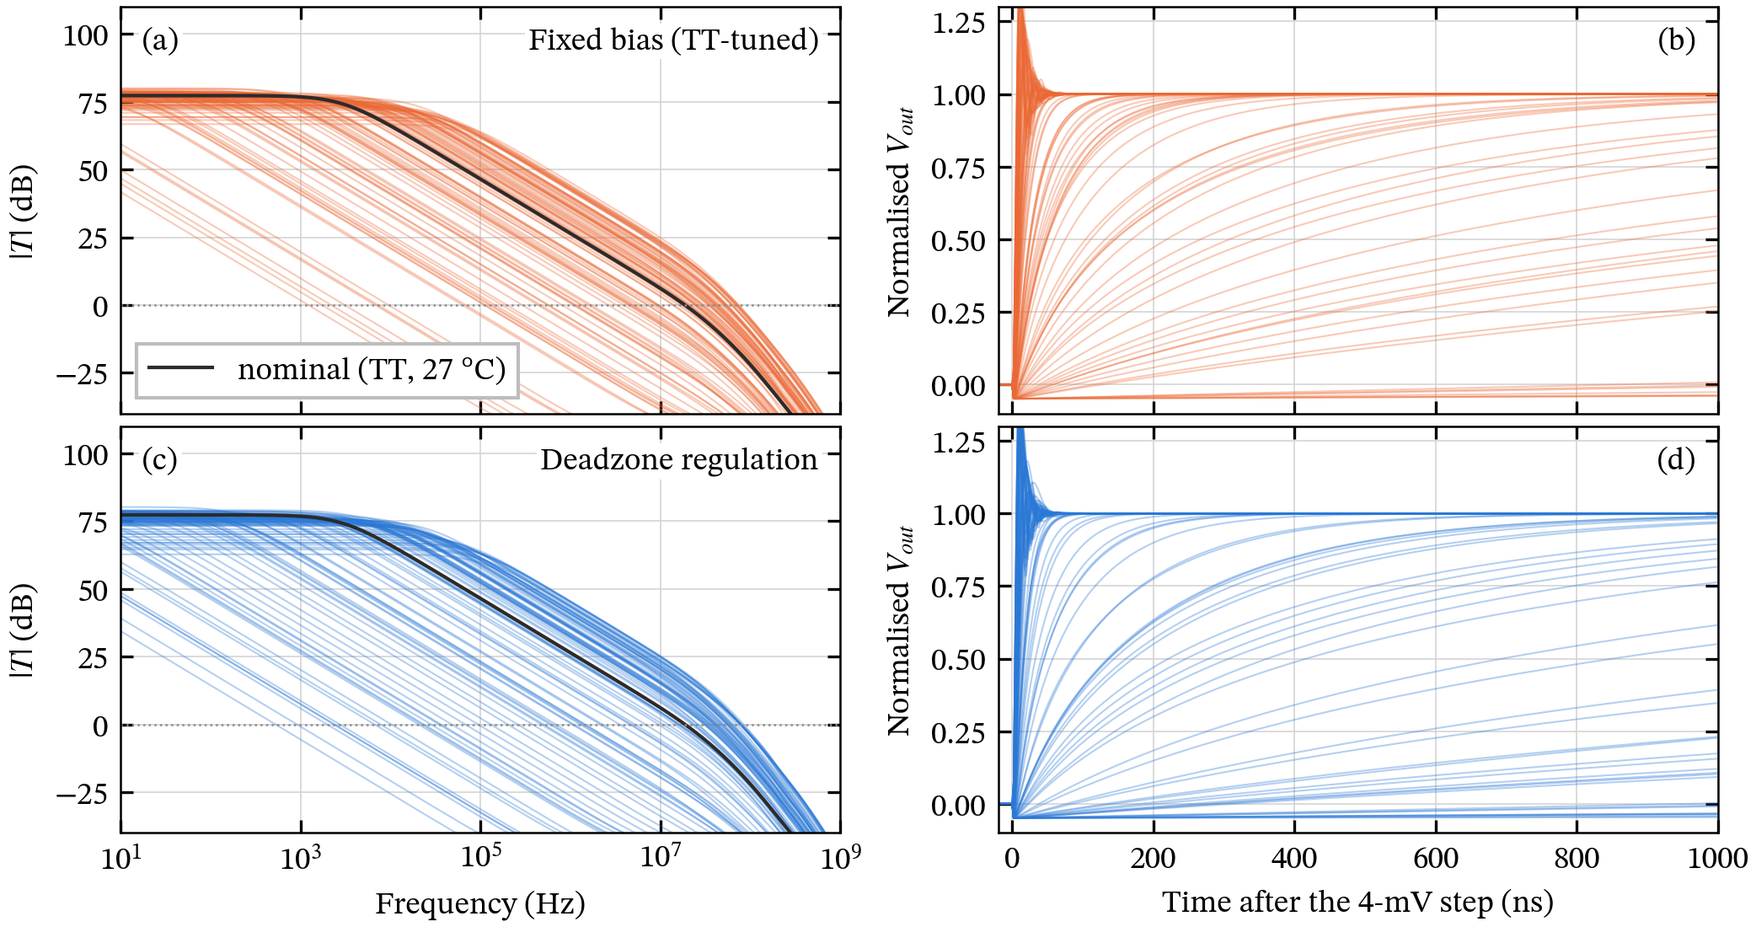
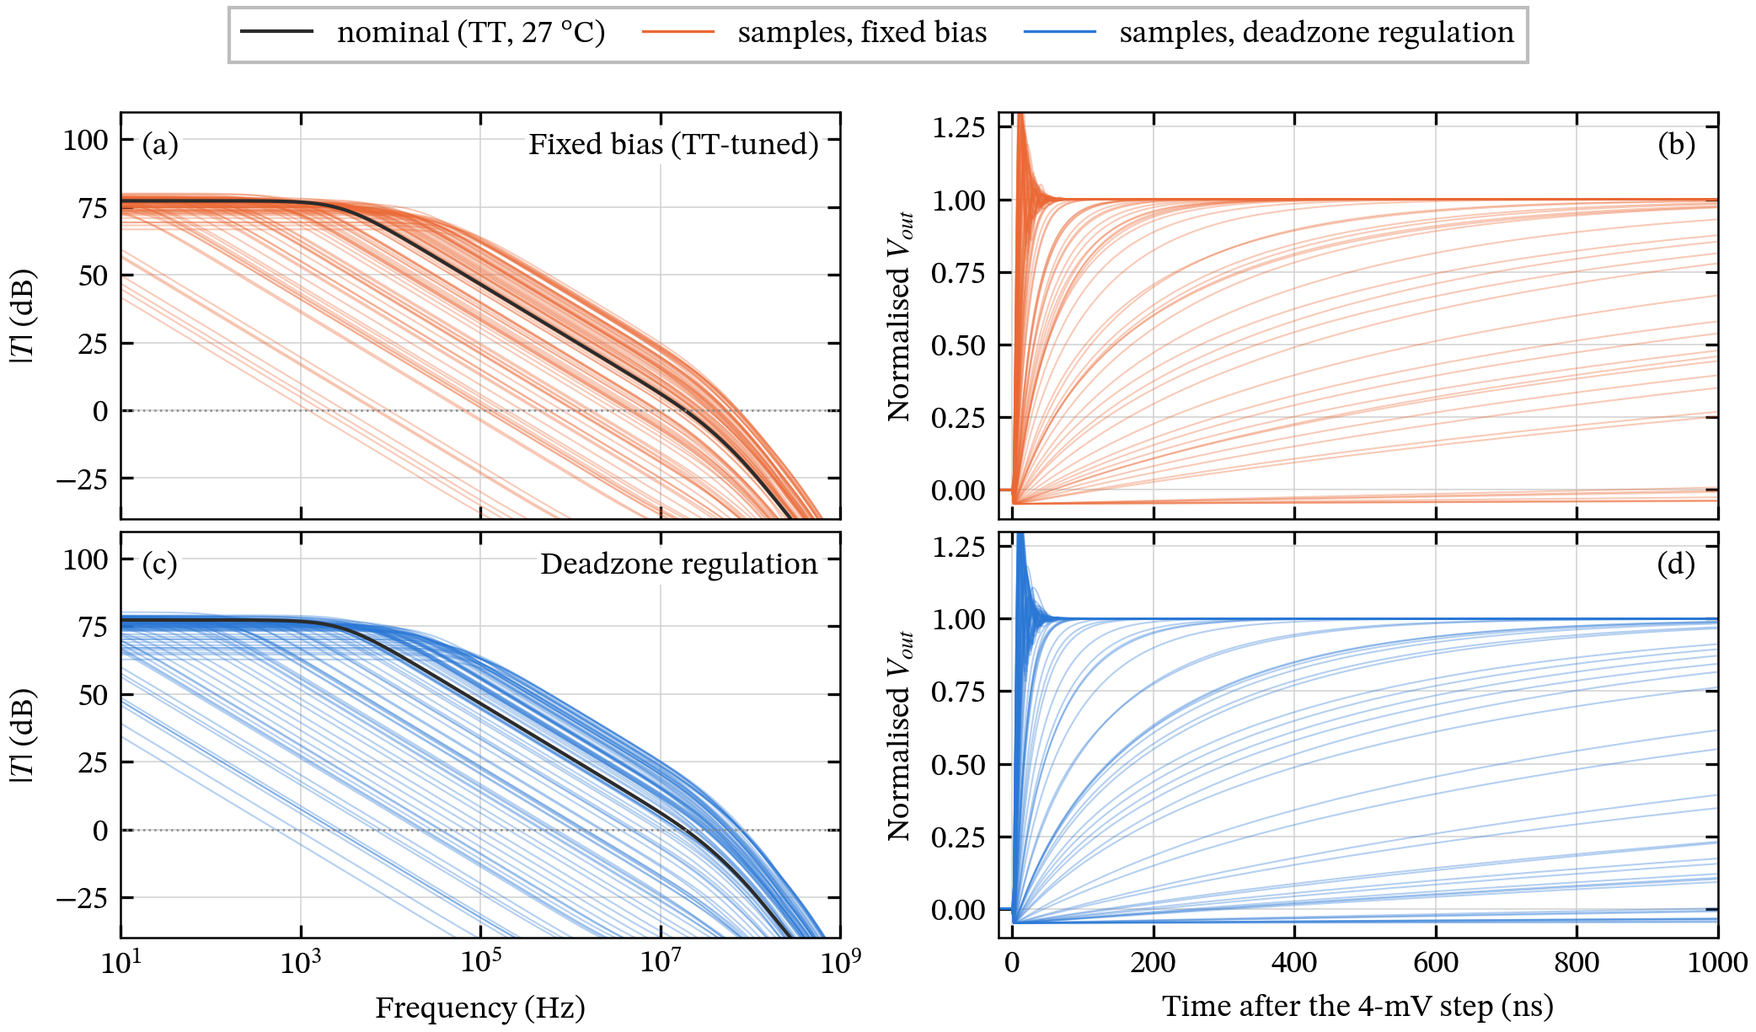
Figures: no legend or label on the data; new three-phase animation; oscillation analysis
- every legend moved above or below the axes (Figs. 13, 14, 16, 17, 22, 24, 26);
  panel labels moved to empty corners (Figs. 13, 14, 19, 20-22, 31)
- three_phase.gif rebuilt: traced waveforms shaded by phase, live output-stage
  view with device currents and the current into C_L, phase explanation;
  1152 x 648 px, 1.9 MB
- README VI-D: why the post-layout buffer oscillates at SS -40 C (16 deg PM,
  4.8 dB GM, 43-MHz limit cycle for steps >= 10 mV; Vo_STG1 parasitics are
  the cause)

diff --git a/sim/make_figures.py b/sim/make_figures.py
@@ -65,6 +65,12 @@ def pick(design="RAMP_LR", **kw):
     return [r for r in ROWS if r["design"] == design and all(r[k] == v for k, v in kw.items())]
 
 
+def top_legend(fig, handles, labels, ncol, y=1.0):
+    """Legend above all axes (never on the data)."""
+    fig.legend(handles, labels, loc="lower center", ncol=ncol, bbox_to_anchor=(0.5, y),
+               columnspacing=1.2, handlelength=2.2)
+
+
 def panel(ax, s):
     ax.text(0.015, 0.97, s, transform=ax.transAxes, va="top", ha="left",
             bbox=dict(fc="white", ec="none", pad=1.0))
@@ -104,10 +110,10 @@ def fig_loopgain():
     a.set(xlabel="Frequency (Hz)", ylabel="Loop gain $|T|$ (dB)", xlim=(1, 1e10), ylim=(-100, 100))
     b.set(xlabel="Frequency (Hz)", ylabel="Phase of $T$ (deg)", xlim=(1, 1e10), ylim=(-360, 10))
     b.set_yticks([-360, -270, -180, -90, 0])
-    a.legend(loc="lower left")
     panel(a, "(a)")
-    panel(b, "(b)")
+    b.text(0.985, 0.97, "(b)", transform=b.transAxes, va="top", ha="right")
     fig.tight_layout(w_pad=1.5)
+    top_legend(fig, *a.get_legend_handles_labels(), ncol=2)
     save(fig, "fig_loopgain.png")
 
 
@@ -128,13 +134,13 @@ def fig_iq_temperature():
         col, ls, mk = CSTYLE[c]
         ax.plot(d["temp-sweep"], d["v(x1.vctrlp)"], ls, color=col, marker=mk, ms=3.5, markevery=6, mfc="white")
         ax.plot(d["temp-sweep"], d["v(x1.vctrln)"], ls, color=col, marker=mk, ms=3.5, markevery=6, mfc=col)
-    ax.set(xlabel="Temperature (°C)", ylabel="Control voltage (V)", xlim=(-40, 125))
+    ax.set(xlabel="Temperature (°C)", ylabel="Control voltage (V)", xlim=(-40, 125), ylim=(0.72, 0.97))
     ax.set_xticks([-40, 0, 40, 80, 125])
     ax.set_title("regulated $V_{CTRLP}$ (open), $V_{CTRLN}$ (filled)")
-    axs[0].legend(loc="lower right", ncol=2, columnspacing=0.8, handlelength=1.8)
     for ax, s in zip(axs, "abc"):
         panel(ax, f"({s})")
     fig.tight_layout(w_pad=1.0)
+    top_legend(fig, *axs[0].get_legend_handles_labels(), ncol=5)
     save(fig, "fig_iq_temperature.png")
 
 
@@ -228,10 +234,10 @@ def fig_small_step():
     b.set(xlabel="Time after the step (ns)", ylabel="Normalised output", xlim=(-50, 2000), ylim=(-0.05, 1.25))
     a.set_title("200 mV input step")
     b.set_title("4 mV input step")
-    b.legend(loc="lower right")
     panel(a, "(a)")
     panel(b, "(b)")
     fig.tight_layout(w_pad=1.5)
+    top_legend(fig, *b.get_legend_handles_labels(), ncol=3)
     save(fig, "fig_sc_steps.png")
 
 
@@ -267,11 +273,9 @@ def fig_three_phase():
     axs[0].plot(t, vin, ":", color=GREY, label="$V_{in}$")
     axs[0].plot(t, v, "-", color=BLUE, label="$V_{out}$")
     axs[0].set_ylabel("Voltage (V)")
-    axs[0].legend(loc="center right")
     axs[1].plot(t, vgp, "-", color=INK, label="$V_{GP}$ (MP3 gate)")
     axs[1].plot(t, vgn, "--", color=ORANGE, label="$V_{GN}$ (MN3 gate)")
     axs[1].set(ylabel="Voltage (V)", ylim=(-0.1, 1.75))
-    axs[1].legend(loc="lower right")
     axs[2].plot(t, iout, "-", color=BLUE)
     axs[2].set(ylabel="$I_{out}=C_L\\,dV_{out}/dt$ (mA)", xlabel="Time after the input step (ns)")
     for ax in axs:
@@ -284,6 +288,9 @@ def fig_three_phase():
     for ax, s, y in zip(axs, "abc", (0.06, 0.94, 0.06)):
         ax.text(0.985, y, f"({s})", transform=ax.transAxes, ha="right", va="bottom" if y < 0.5 else "top")
     fig.tight_layout(h_pad=0.4)
+    h0, l0 = axs[0].get_legend_handles_labels()
+    h1, l1 = axs[1].get_legend_handles_labels()
+    fig.legend(h0 + h1, l0 + l1, loc="upper center", ncol=2, bbox_to_anchor=(0.55, 0.0), handlelength=2.0)
     save(fig, "fig_three_phase.png")
     return t, v, vin, vgp, vgn, iout, t1, t2
 
@@ -306,9 +313,6 @@ def phase_panels(axs, bias, corner, temp, show_legend=False):
     iq = pick(bias=bias, corner=corner.upper(), temp_c=temp, vdd=1.65)[0]["iq_ua"]
     axs[2].text(0.97, 0.93, f"$I_Q$ = {iq:.3g} µA\n0.1 % at {ts:.0f} ns", transform=axs[2].transAxes,
                 ha="right", va="top", bbox=dict(fc="white", ec="none", pad=1.0))
-    if show_legend:
-        axs[0].legend(loc="lower right", handlelength=1.6)
-        axs[1].legend(loc="upper right", ncol=2, handlelength=1.6, columnspacing=0.8)
     return t1, t2, ts
 
 
@@ -330,11 +334,14 @@ def fig_three_phase_corners():
         axs[0, j].set_title(f"{c.upper()}, {t} °C".replace("-", "−"))
         axs[-1, j].set(xlabel="Time after the input step (ns)", xlim=(-5, 120))
     for n, ax in enumerate(axs.flat):
-        ax.text(0.03, 0.93, f"({chr(97 + n)})", transform=ax.transAxes, ha="left", va="top")
+        ax.text(0.97, 0.06, f"({chr(97 + n)})", transform=ax.transAxes, ha="right", va="bottom")
     fig.tight_layout(h_pad=0.25, w_pad=0.4, rect=(0.025, 0, 1, 0.965))
     h = [mpl.patches.Patch(color=c) for c in PHASE_TINT]
-    fig.legend(h, ["RC phase (stage-3 device fully on)", "large-signal phase", "small-signal phase to 0.1 %"],
-               loc="lower center", ncol=3, bbox_to_anchor=(0.5, 0.965), handlelength=1.4)
+    h += [mpl.lines.Line2D([], [], color=GREY, ls=":"), mpl.lines.Line2D([], [], color=INK, ls="-"),
+          mpl.lines.Line2D([], [], color=GREY, ls="--")]
+    fig.legend(h, ["RC phase (stage-3 device fully on)", "large-signal phase", "small-signal phase to 0.1 %",
+                   "$V_{in}$", "$V_{GP}$ (MP3 gate)", "$V_{GN}$ (MN3 gate)"],
+               loc="lower center", ncol=3, bbox_to_anchor=(0.5, 0.965), handlelength=1.6)
     row_label(fig, axs[0:3, 0], BIAS_ROW["fix"])
     row_label(fig, axs[3:6, 0], BIAS_ROW["reg"])
     save(fig, "fig_three_phase_corners.png")
@@ -419,8 +426,8 @@ def fig_postlayout_bode():
     axs[0, 0].set_ylabel("$|T|$ (dB)")
     axs[1, 0].set_ylabel("$\\angle T$ (deg)")
     for n, ax in enumerate(axs.flat):
-        ax.text(0.03, 0.05 if n < 3 else 0.30, f"({chr(97 + n)})", transform=ax.transAxes, ha="left",
-                va="bottom" if n < 3 else "top")
+        ax.text(0.03 if n < 3 else 0.97, 0.05 if n < 3 else 0.95, f"({chr(97 + n)})", transform=ax.transAxes,
+                ha="left" if n < 3 else "right", va="bottom" if n < 3 else "top")
     fig.tight_layout(h_pad=0.3, w_pad=0.4, rect=(0, 0, 1, 0.94))
     h, l = axs[0, 0].get_legend_handles_labels()
     fig.legend(h, l, loc="lower center", ncol=2, bbox_to_anchor=(0.5, 0.94))
@@ -593,50 +600,165 @@ def fig_mc_waves():
                        bbox=dict(fc="white", ec="none", pad=1.0))
     axs[1, 0].set(xlabel="Frequency (Hz)", xlim=(10, 1e9))
     axs[1, 1].set(xlabel="Time after the 4-mV step (ns)", xlim=(-20, 1000))
-    axs[0, 0].legend(loc="lower left")
+
     for ax, sl in zip(axs.flat, "abcd"):
         left = ax in axs[:, 0]
         ax.text(0.03 if left else 0.97, 0.95, f"({sl})", transform=ax.transAxes, ha="left" if left else "right",
                 va="top", bbox=dict(fc="white", ec="none", pad=1.0))
     fig.tight_layout(h_pad=0.4, w_pad=1.0)
+    top_legend(fig, [mpl.lines.Line2D([], [], color=INK, lw=1.0), mpl.lines.Line2D([], [], color=ORANGE, lw=0.8),
+                     mpl.lines.Line2D([], [], color=BLUE, lw=0.8)],
+               ["nominal (TT, 27 °C)", "samples, fixed bias", "samples, deadzone regulation"], ncol=3)
     save(fig, "fig_mc_waves.png")
 
 
 def gif_three_phase():
-    t, v, vin, vgp, vgn, iout, t1, t2, _ = three_phase_data()
-    fig, axs = plt.subplots(3, 1, figsize=(4.6, 4.6), sharex=True, dpi=110)
-    axs[0].plot(t, vin, ":", color=GREY)
-    axs[0].plot(t, v, "-", color=BLUE)
-    axs[1].plot(t, vgp, "-", color=INK)
-    axs[1].plot(t, vgn, "--", color=ORANGE)
-    axs[2].plot(t, iout, "-", color=BLUE)
-    axs[0].set_ylabel("$V_{in}$, $V_{out}$ (V)")
-    axs[1].set_ylabel("$V_{GP}$, $V_{GN}$ (V)")
-    axs[2].set_ylabel("$I_{out}$ (mA)")
-    axs[2].set_xlabel("Time after the input step (ns)")
+    """Animation of the 200-mV buffer step (TT, 27 degC): the waveforms are traced in time,
+    the three settling phases are shaded as they happen, and a live view of the output
+    stage shows which device conducts and how much current flows into C_L."""
+    from matplotlib.patches import Circle, FancyArrow, Rectangle
+    t, v, vin, vgp, vgn, iout, t1, t2, ts = three_phase_data()
+    d = read(RES / "tran_reg_tt_27.dat")
+    m = (d["time"] >= 95e-9) & (d["time"] <= 595e-9)
+    ip = d["i(v.x1.viq)"][m] * 1e6                 # MP3 current (uA)
+    io = iout * 1e3                                 # C_L current (uA)
+    i_n = np.maximum(ip - io, 0.0)                  # MN3 current by KCL at V_out (uA)
+    T_END = 100.0
+    keep = t <= T_END
+    t, v, vin, vgp, vgn, io, ip, i_n = (x[keep] for x in (t, v, vin, vgp, vgn, io, ip, i_n))
+    phases = [(0, t1, "RC phase", "Stage 2 pulls the MP3 gate to the\nrail: MP3 is fully on and charges\n"
+                                  "$C_L$ with about 0.5 mA."),
+              (t1, t2, "Large-signal phase", "The gates leave the rails; the\noutput current falls steeply and\n"
+                                             "overshoots slightly."),
+              (t2, ts, "Small-signal phase", "Both gates are in the deadzone;\nthe loop settles linearly with\n"
+                                             "only $I_Q$ in the output stage."),
+              (ts, T_END, "Settled", "Within 0.1 % of the final value;\nMP3 and MN3 carry only the\n"
+                                     "quiescent current $I_Q$ = 4.2 µA.")]
+
+    mpl.rcParams.update({"font.size": 10, "axes.labelsize": 10, "legend.fontsize": 10,
+                         "xtick.labelsize": 10, "ytick.labelsize": 10})
+    fig = plt.figure(figsize=(9.6, 5.4), dpi=120)
+    gs = fig.add_gridspec(3, 2, width_ratios=(1.9, 1.0), hspace=0.18, wspace=0.04,
+                          left=0.08, right=0.985, top=0.83, bottom=0.10)
+    axs = [fig.add_subplot(gs[i, 0]) for i in range(3)]
+    for ax in axs[1:]:
+        ax.sharex(axs[0])
+    sch = fig.add_subplot(gs[:, 1])
+    fig.text(0.5, 0.975, "Ring amplifier: the three settling phases of a 200-mV step (TT, 27 °C, $C_L$ = 50 pF)",
+             ha="center", va="top", fontsize=11)
+    # static axes setup
+    axs[0].set(ylabel="Voltage (V)", ylim=(0.70, 0.96))
+    axs[1].set(ylabel="Gates (V)", ylim=(-0.1, 1.75))
+    axs[2].set(ylabel="Current (µA)", ylim=(-150, 650), xlabel="Time after the input step (ns)")
     for ax in axs:
-        ax.set_xlim(-5, 120)
-    cur = [ax.axvline(0, color=INK, lw=0.8) for ax in axs]
-    label = axs[0].text(0.98, 0.08, "", transform=axs[0].transAxes, ha="right", va="bottom",
-                        bbox=dict(fc="white", ec="#bdbdbd", pad=2))
-    fig.suptitle("Ring amplifier step response: three settling phases (TT, 27 °C)", fontsize=9)
-    fig.tight_layout()
-    frames = np.linspace(-5, 120, 90)
+        ax.set_xlim(-5, T_END)
+    for ax in axs[:2]:
+        plt.setp(ax.get_xticklabels(), visible=False)
+    lines = dict(vin=axs[0].plot([], [], ":", color=GREY, lw=1.2)[0],
+                 vout=axs[0].plot([], [], "-", color=BLUE, lw=1.6)[0],
+                 vgp=axs[1].plot([], [], "-", color=INK, lw=1.4)[0],
+                 vgn=axs[1].plot([], [], "--", color=ORANGE, lw=1.4)[0],
+                 io=axs[2].plot([], [], "-", color=BLUE, lw=1.6)[0],
+                 ip=axs[2].plot([], [], "-", color=INK, lw=1.0, alpha=0.6)[0])
+    dots = [ax.plot([], [], "o", ms=5, color=c, zorder=6)[0] for ax, c in
+            ((axs[0], BLUE), (axs[1], INK), (axs[1], ORANGE), (axs[2], BLUE))]
+    shades = [[ax.axvspan(0, 0, color=PHASE_TINT[min(k, 2)], lw=0, alpha=1.0 if k < 3 else 0.0) for k in range(4)]
+              for ax in axs]
+    h = [mpl.lines.Line2D([], [], color=GREY, ls=":", lw=1.2), mpl.lines.Line2D([], [], color=BLUE, lw=1.6),
+         mpl.lines.Line2D([], [], color=INK, lw=1.4), mpl.lines.Line2D([], [], color=ORANGE, ls="--", lw=1.4),
+         mpl.lines.Line2D([], [], color=INK, lw=1.0, alpha=0.6)]
+    fig.legend(h, ["$V_{in}$", "$V_{out}$, $I_{C_L}$", "$V_{GP}$ (MP3 gate)", "$V_{GN}$ (MN3 gate)",
+                   "$I_{MP3}$"], loc="lower center", ncol=5, bbox_to_anchor=(0.5, 0.855), frameon=False,
+               handlelength=2.0, columnspacing=1.4)
+    # output-stage view
+    sch.set_xlim(0.6, 10.6)
+    sch.set_ylim(0, 14.2)
+    sch.axis("off")
+    k = dict(color=INK, lw=1.4, solid_capstyle="round")
+    sch.plot([3.2, 6.2], [9.6, 9.6], **k)
+    sch.text(4.7, 9.75, "$V_{DD}$", ha="center", va="bottom")
+    sch.plot([4.7, 4.7], [9.6, 8.6], **k)
+    sch.plot([4.7, 4.7], [6.6, 4.4], **k)
+    sch.plot([4.7, 4.7], [2.4, 1.4], **k)
+    for yy in (1.4, 1.15, 0.9):
+        w = {1.4: 0.6, 1.15: 0.38, 0.9: 0.16}[yy]
+        sch.plot([4.7 - w, 4.7 + w], [yy, yy], **k)
+    sch.plot([4.7, 8.2], [5.5, 5.5], **k)
+    sch.add_patch(Circle((4.7, 5.5), 0.09, color=INK, zorder=5))
+    sch.text(6.2, 5.62, "$V_{out}$", ha="center", va="bottom")
+    sch.plot([8.2, 8.2], [5.5, 4.0], **k)
+    sch.plot([7.6, 8.8], [4.0, 4.0], color=INK, lw=2.2)
+    sch.plot([7.6, 8.8], [3.6, 3.6], color=INK, lw=2.2)
+    sch.plot([8.2, 8.2], [3.6, 2.6], **k)
+    for yy, w in ((2.6, 0.5), (2.38, 0.32), (2.16, 0.14)):
+        sch.plot([8.2 - w, 8.2 + w], [yy, yy], **k)
+    sch.text(9.0, 3.8, "$C_L$", ha="left", va="center")
+    dev = {}
+    for name, y0, lab in (("MP3", 6.6, "MP3"), ("MN3", 2.4, "MN3")):
+        dev[name] = Rectangle((4.1, y0), 1.2, 2.0, fc="white", ec=INK, lw=1.4, zorder=3)
+        sch.add_patch(dev[name])
+        sch.text(4.7, y0 + 1.0, lab, ha="center", va="center", zorder=4)
+        sch.plot([2.7, 4.1], [y0 + 1.0, y0 + 1.0], **k)
+    sch.text(2.6, 7.6, "$V_{GP}$", ha="right", va="center")
+    sch.text(2.6, 3.4, "$V_{GN}$", ha="right", va="center")
+    val_p = sch.text(5.5, 8.15, "", ha="left", va="center", fontsize=10)
+    val_n = sch.text(5.5, 2.85, "", ha="left", va="center", fontsize=10)
+    val_c = sch.text(7.25, 4.6, "", ha="right", va="center", fontsize=10, color=BLUE)
+    arrow = [None]
+    title = sch.text(5.6, 14.1, "", ha="center", va="top", fontsize=11, fontweight="bold")
+    expl = sch.text(5.6, 13.15, "", ha="center", va="top", fontsize=10, linespacing=1.25)
+    on_col = "#f6c3a5"
+
+    def shade_alpha(i_ua):
+        return min(1.0, max(0.0, np.log10(max(i_ua, 1e-3) / 4.2) / np.log10(600 / 4.2)))
+
+    frames = list(np.linspace(-5, T_END, 150)) + [T_END] * 18      # hold the last frame
 
     def upd(x):
-        for c in cur:
-            c.set_xdata([x, x])
-        phase = "RC settling: MP3 fully on" if 0 <= x < t1 else \
-            "large-signal settling" if t1 <= x < t2 else \
-            "small-signal settling at $I_Q$" if x >= t2 else "before the step: $I_Q$ only"
-        label.set_text(phase)
-        return cur + [label]
+        sel = t <= x
+        lines["vin"].set_data(t[sel], vin[sel])
+        lines["vout"].set_data(t[sel], v[sel])
+        lines["vgp"].set_data(t[sel], vgp[sel])
+        lines["vgn"].set_data(t[sel], vgn[sel])
+        lines["io"].set_data(t[sel], io[sel])
+        lines["ip"].set_data(t[sel], ip[sel])
+        j = max(int(np.searchsorted(t, x)) - 1, 0)
+        for dot, yy in zip(dots, (v[j], vgp[j], vgn[j], io[j])):
+            dot.set_data([t[j]], [yy])
+        for ax_sh in shades:
+            for kk, (a0, a1, _, _) in enumerate(phases[:3]):
+                lo, hi = a0, min(a1, x)
+                ax_sh[kk].set_x(lo)
+                ax_sh[kk].set_width(max(hi - lo, 0.0))
+        ph = next((p for p in phases if p[0] <= x < p[1]), phases[-1]) if x >= 0 else \
+            (None, None, "Before the step", "The amplifier is at rest: both gates sit in the deadzone and only\n"
+                                            "$I_Q$ = 4.2 µA flows through MP3 and MN3.")
+        title.set_text(ph[2])
+        expl.set_text(ph[3])
+        for name, cur in (("MP3", ip[j]), ("MN3", i_n[j])):
+            a_ = shade_alpha(abs(cur))
+            col = np.array(mpl.colors.to_rgb(on_col)) * a_ + np.ones(3) * (1 - a_)
+            dev[name].set_facecolor(col)
+        val_p.set_text(f"{ip[j]:6.0f} µA" if abs(ip[j]) >= 10 else f"{ip[j]:6.1f} µA")
+        val_n.set_text(f"{i_n[j]:6.0f} µA" if abs(i_n[j]) >= 10 else f"{i_n[j]:6.1f} µA")
+        val_c.set_text(f"{io[j]:+.0f} µA" if abs(io[j]) >= 10 else f"{io[j]:+.1f} µA")
+        if arrow[0] is not None:
+            arrow[0].remove()
+            arrow[0] = None
+        if abs(io[j]) > 5:            # on the wire between V_out and C_L, length ~ |I_CL|
+            ln = 0.45 + 0.75 * min(abs(io[j]) / 550, 1.0)
+            y0_ = 5.25 if io[j] > 0 else 4.15
+            arrow[0] = sch.add_patch(FancyArrow(7.75, y0_, 0, -ln if io[j] > 0 else ln, width=0.08,
+                                                head_width=0.35, head_length=0.3, color=BLUE, zorder=6,
+                                                length_includes_head=True))
+        return []
 
     ani = animation.FuncAnimation(fig, upd, frames=frames, blit=False)
-    ani.save(OUT / "three_phase.gif", writer=animation.PillowWriter(fps=12))
+    ani.save(OUT / "three_phase.gif", writer=animation.PillowWriter(fps=15), dpi=120)
     plt.close(fig)
+    mpl.rcParams.update({"font.size": 9, "axes.labelsize": 9, "legend.fontsize": 9,
+                         "xtick.labelsize": 9, "ytick.labelsize": 9})
     print("wrote", OUT / "three_phase.gif")
-
 
 def fig_power():
     d = read(RES / "power_tt_27.dat")
@@ -672,7 +794,8 @@ def fig_psrr():
         ax.semilogx(d["frequency"], -20 * np.log10(a), ls, color=col, marker=mk, ms=3.5, markevery=40,
                     mfc="white", label=c)
     ax.set(xlabel="Frequency (Hz)", ylabel="PSRR (dB)", xlim=(1, 1e10), ylim=(0, 110))
-    ax.legend(loc="lower left", ncol=3, columnspacing=0.8)
+    fig.tight_layout()
+    top_legend(fig, *ax.get_legend_handles_labels(), ncol=5)
     save(fig, "fig_psrr.png")
 
 
@@ -735,8 +858,9 @@ def fig_bode_corners():
         axs[-1, j].set(xlabel="Frequency (Hz)", xlim=(10, 1e9))
         axs[-1, j].set_xticks([1e1, 1e3, 1e5, 1e7, 1e9])
     for k, ax in enumerate(axs.flat):
-        ax.text(0.03, 0.05 if k // 3 % 2 == 0 else 0.30, f"({'abcdefghijkl'[k]})", transform=ax.transAxes,
-                ha="left", va="bottom" if k // 3 % 2 == 0 else "top")
+        mag = k // 3 % 2 == 0
+        ax.text(0.03 if mag else 0.97, 0.05 if mag else 0.95, f"({'abcdefghijkl'[k]})", transform=ax.transAxes,
+                ha="left" if mag else "right", va="bottom" if mag else "top")
     fig.tight_layout(h_pad=0.3, w_pad=0.4, rect=(0.025, 0, 1, 0.965))
     corner_legend(fig, 0.965)
     row_label(fig, axs[0:2, 0], BIAS_ROW["fix"])
@@ -777,8 +901,7 @@ def fig_step_corners(k, name, xlim):
         axs[0, j].set_title(f"{t} °C".replace("-", "\u2212"))
         axs[-1, j].set(xlabel="Time after the step (ns)", xlim=xlim)
     for n, ax in enumerate(axs.flat):
-        ax.text(0.03, 0.95, f"({'abcdefghijkl'[n]})", transform=ax.transAxes, ha="left", va="top",
-                bbox=dict(fc="white", ec="none", pad=1.0))
+        ax.text(0.97, 0.95, f"({'abcdefghijkl'[n]})", transform=ax.transAxes, ha="right", va="top")
     fig.tight_layout(h_pad=0.3, w_pad=0.4, rect=(0.025, 0, 1, 0.965))
     corner_legend(fig, 0.965, extra=(("0.1 % error", dict(color=INK, lw=0.8, ls=":")),
                                      ("250 ns", dict(color=GREY, lw=0.6, ls="--"))))

diff --git a/README.md b/README.md
@@ -184,11 +184,13 @@ ringamp settling in pipelined ADCs is given in [13].
 <i>V<sub>GP</sub></i>, (c) output current, (d) output voltage, divided into initial RC settling, large-signal settling and
 small-signal linear settling. Reproduced from [2, Fig. 2.12] (the thesis caption labels the panels a, b, b, c).</p>
 
-<p align="center"><img src="docs/figures/results/three_phase.gif" width="62%" alt="animation of the three settling phases"></p>
-<p align="center"><b>Fig. 4.</b> The three phases in the layout-ready IHP design (TT, 27 °C, 200-mV step,
-50 pF): a cursor walks through the simulated output, the stage-3 gate voltages and the load current
-<i>C<sub>L</sub></i>·d<i>V<sub>out</sub></i>/d<i>t</i>. The phase boundaries are detected from the data (a gate within
-0.25 V of a rail; |<i>I<sub>out</sub></i>| &gt; 20 <i>I<sub>Q</sub></i>).</p>
+<p align="center"><img src="docs/figures/results/three_phase.gif" width="100%" alt="animation of the three settling phases"></p>
+<p align="center"><b>Fig. 4.</b> The three phases in the layout-ready IHP design (TT, 27 °C, 200-mV buffer step,
+<i>C<sub>L</sub></i> = 50 pF), animated from the simulation. Left: output, stage-3 gate voltages and the currents
+of MP3 and of <i>C<sub>L</sub></i>, traced in time and shaded by phase. Right: the output stage at the same instant,
+with the device currents (shading ∝ log current) and the direction and size of the current into <i>C<sub>L</sub></i>.
+The phase boundaries are detected from the data: a gate within 0.25 V of a rail (RC), |<i>I<sub>C<sub>L</sub></sub></i>| above
+20 <i>I<sub>Q</sub></i> (large signal), then until the output is within 0.1 % (small signal).</p>
 
 ### C. Small-signal model and design equations
 
@@ -758,6 +760,19 @@ SS, −40 °C the 38° of the schematic become 16° and the buffer oscillates af
 (Fig. 32). The SC amplifier, whose feedback factor is 0.5, settles at every point, and its static gain error is
 that of the schematic: the feedback input `plus` and the output no longer couple (below the 0.01-fF extraction
 threshold; 7 fF in the first layout, which showed up as a 0.14 % gain error).
+
+**Why the buffer oscillates at SS, −40 °C.** The post-layout loop is stable in the small-signal sense but has almost no
+reserve: 16° of phase margin and 4.8 dB of gain margin, with the loop phase crossing −180° at 36 MHz (schematic: 38°,
+15 dB, 84 MHz). A 2-mV step therefore decays. Any step of 10 mV or more ends in the same sustained oscillation, 64 mV
+peak to peak at 43 MHz, whatever the step size — a limit cycle. In each cycle the stage-3 gates leave the deadzone and
+MP3 conducts up to 430 µA, a hundred times $I_Q$; the output-stage transconductance, and with it the loop gain near
+the crossover, rises by more than the 4.8 dB of gain margin, so the oscillation sustains itself at an amplitude where
+the average large-signal gain is just one. This is the cold, slow corner because the regulated output stage keeps its
+$g_m$ while the stage gains $A_1A_2$ are highest there, which already gives the schematic its lowest margin (Fig. 15).
+Rerunning the 200-mV step with the parasitic capacitances of one net group removed shows which ones matter: without
+those of `Vo_STG1` (19 fF) the oscillation disappears, without any other group it persists (55–62 mV). A stage-1
+output that tolerates its routing capacitance, or large-signal damping as in [2, Ch. 4], [14], is therefore required;
+the buffer configuration, with feedback factor 1, is the worst case for both.
 
 <p align="center"><img src="docs/figures/results/fig_postlayout_bode.png" width="100%" alt="schematic versus post-layout loop gain"></p>
 <p align="center"><b>Fig. 31.</b> Loop gain of the buffer, schematic (blue) and post-layout (orange, dashed), at
